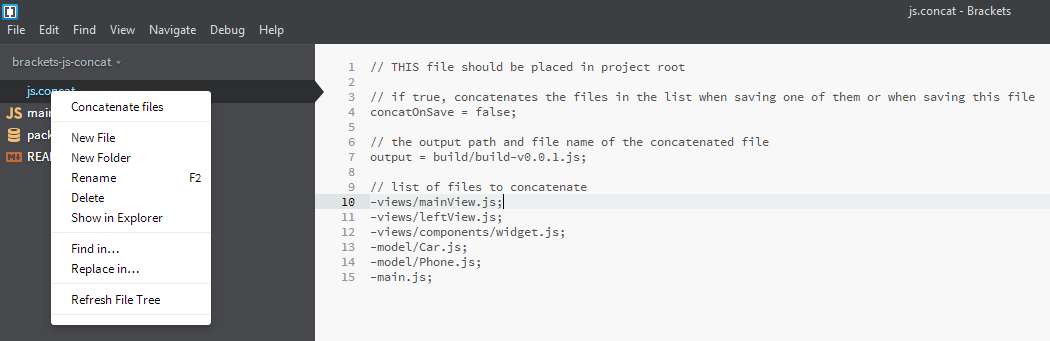
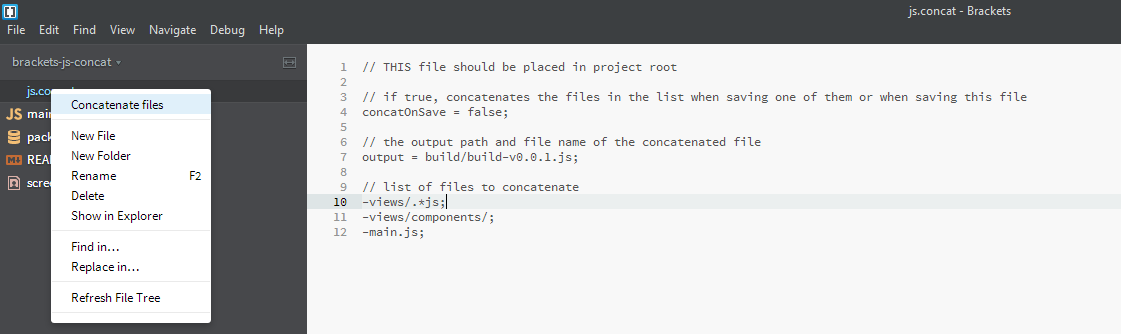
Version 0.1.0
Added support for wildcards

diff --git a/main.js b/main.js
@@ -21,8 +21,83 @@ define(function (require, exports, module) {
 	var buildFile;
 	var fileQueue;
 	var time;
+	var direcoriesList = [];
+	var WILD_CARD_EXP = /(.*)\*(.*)/;
 	
-	var parseConfigFile = function (data) {
+	var addDirectoryToFileList = function (callback) {
+		var path = direcoriesList.shift();
+		var wildMatch = WILD_CARD_EXP.exec(path);
+		
+		if (wildMatch) {
+			path = wildMatch[1];
+		}
+		
+		var directory = FileSystem.getDirectoryForPath(ProjectManager.getProjectRoot().fullPath + path);
+		directory.getContents(function (error, entries, stats, statsErrors) {
+			var i;
+			
+			for (i = 0; i < entries.length; i++) {
+				var relativePath = entries[i].fullPath.substr(ProjectManager.getProjectRoot().fullPath.length);
+				
+				if (entries[i].isFile) {
+					var fileName = entries[i].name;
+					
+					if (wildMatch && fileName.indexOf(wildMatch[2]) === fileName.length - wildMatch[2].length) {
+						fileList.push(relativePath);
+					} else if (!wildMatch) {
+						fileList.push(relativePath);
+					}
+				} else if (entries[i].isDirectory) {
+					var wildCard = (wildMatch) ? '*' + wildMatch[2] : '';
+					direcoriesList.push(relativePath + wildCard);
+				}
+			}
+			
+			if (direcoriesList.length > 0) {
+				addDirectoryToFileList(callback);
+			} else {
+				callback();
+			}
+		});
+	};
+	
+	var removeFileDuplicates = function () {
+		var i, buffer = {}, newFileList = [];
+		
+		for (i = 0; i < fileList.length; i++) {
+			if (!buffer[fileList[i]]) {
+				buffer[fileList[i]] = 1;
+				newFileList.push(fileList[i]);
+			}
+		}
+		
+		fileList = newFileList;
+	};
+	
+	var checkForWildCards = function (callback) {
+		var i;
+		direcoriesList = [];
+		
+		for (i = 0; i < fileList.length; i++) {
+			if (/\/$/.exec(fileList[i]) || WILD_CARD_EXP.exec(fileList[i])) {
+				direcoriesList.push(fileList[i]);
+			}
+		}
+		
+		for (i = fileList.length - 1; i >= 0; i--) {
+			if (/\/$/.exec(fileList[i]) || WILD_CARD_EXP.exec(fileList[i])) {
+				fileList.splice(i, 1);
+			}
+		}
+		
+		if (direcoriesList.length > 0) {
+			addDirectoryToFileList(callback);
+		} else {
+			callback();
+		}
+	};
+	
+	var parseConfigFile = function (data, callback) {
 		var concatOnSaveExp = /\s*concatOnSave\s*=\s*true\s*;/;
 		var outputFileExp = /\s*output\s*=\s*(.*)\s*;/;
 		var outputFilePath = outputFileExp.exec(data);
@@ -44,6 +119,11 @@ define(function (require, exports, module) {
 		while ((file = fileListExp.exec(data)) !== null) {
 			fileList.push(file[1]);
 		}
+		
+		checkForWildCards(function () {
+			removeFileDuplicates();
+			callback();
+		});
 	};
 	
 	var loadConfigFile = function (callback) {
@@ -52,8 +132,7 @@ define(function (require, exports, module) {
 			if (error) {
 				console.log('[brackets-js-concat] Error loading project config file (' + CONFIG_FILE + '): ' + error);
 			} else {
-				parseConfigFile(data);
-				callback();
+				parseConfigFile(data, callback);
 			}
 		});
 	};

diff --git a/README.md b/README.md
@@ -19,24 +19,32 @@ output = build/build-v0.0.1.js;
 
 // the list of files (paths relative to project root) to concatenate
 -views/mainView.js;
--views/leftView.js;
--views/components/widget.js;
--model/Car.js;
--model/Phone.js;
+-views/components/;
+-model/*.js;
 -main.js;
 ```
 
 Right-click on 'js.concat' to manually concatenate the files in the list, useful if 'concatOnSave' is false.
 
-![](https://raw.githubusercontent.com/smiclea/brackets-js-concat/master/screenshot.png)
+<b>Wildcard support</b>
+* if the path to file ends with '/' character, all the files in that folder will be concatenated
+* if the path to file ends with '*' followed by a group of characters, only files ending in that group of characters will be concatenating (ex.: views/*.js matches all the files in views folder ending with '.js' i.e. all javascript files)
 
-Planned (not yet implemented) features:
-* wild card support in the list of files
-* grouping files for multiple outputs
+![](https://raw.githubusercontent.com/smiclea/brackets-js-concat/master/screenshot.png)
 
 <b>Change log</b>
 
+<i>0.1.0</i>
+<ul>
+<li>Added support for wildcards</li>
+</ul>
+
 <i>0.0.2</i>
+<ul>
+<li>Small bug-fixes</li>
+</ul>
+
+<i>0.0.1</i>
 <ul>
 <li>First release</li>
 </ul>
